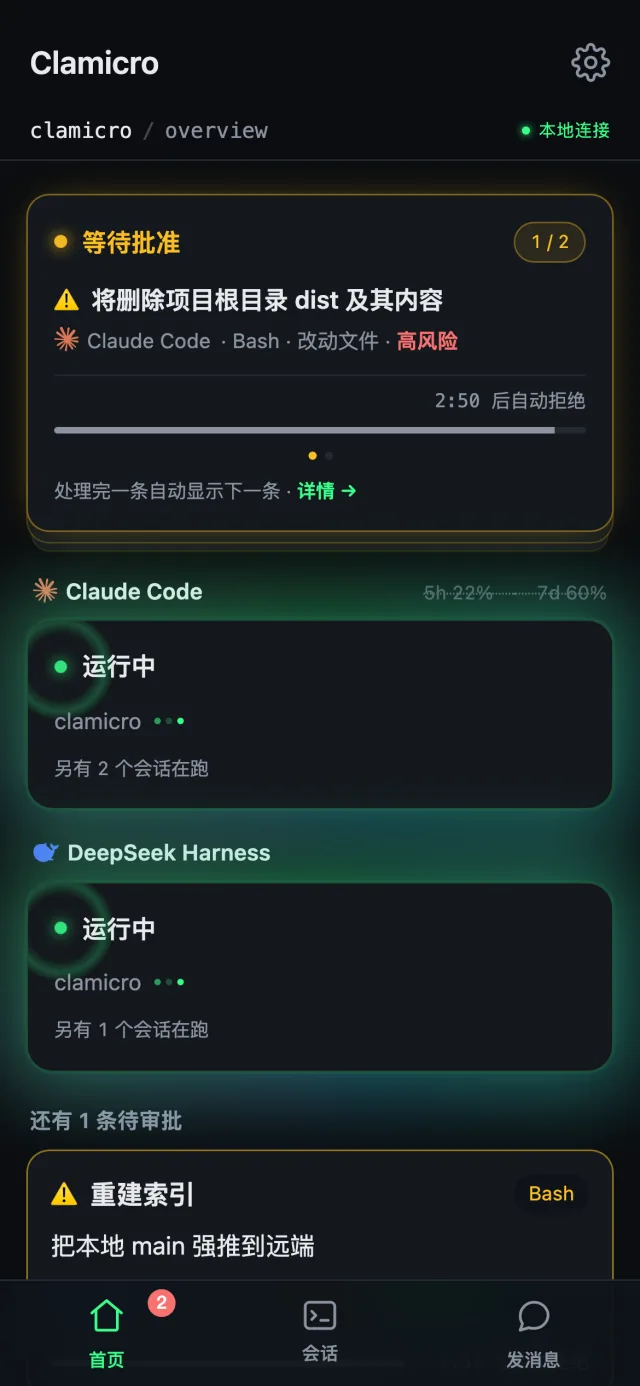
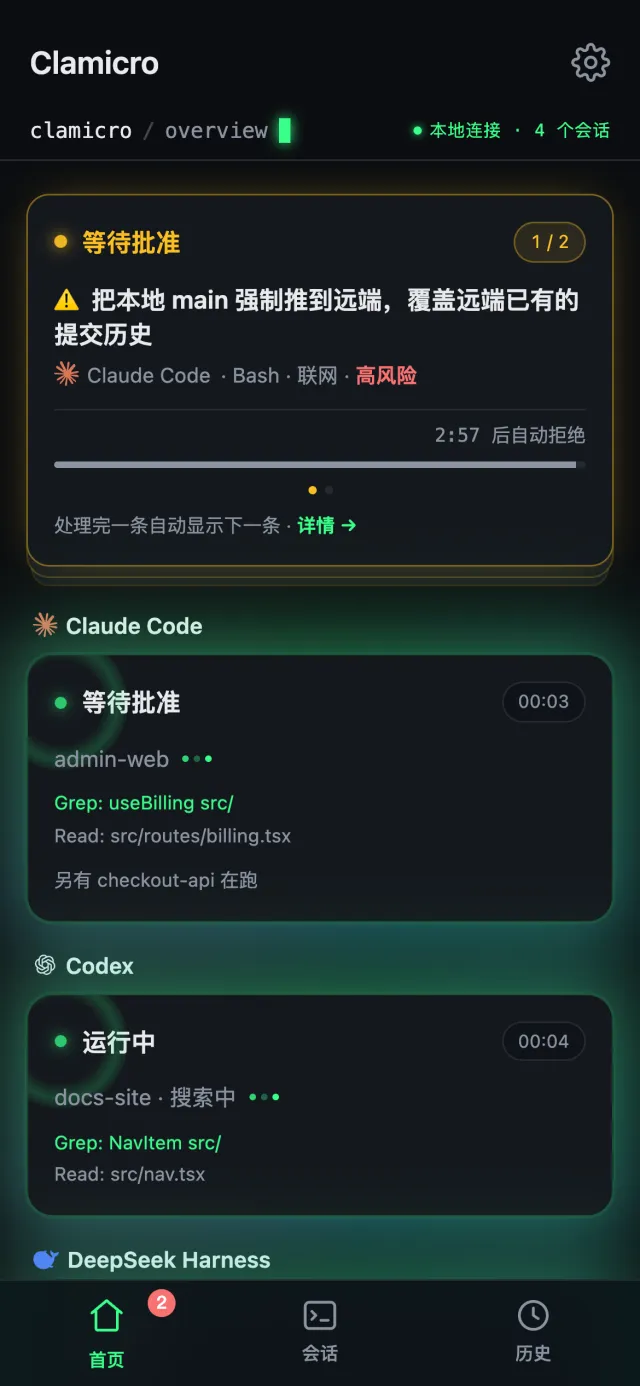
docs: 重拍界面截图，并把重拍这件事变成一条命令
## 图为什么旧了

上一批是 8 月 20 日拍的。之后界面改了不止一处：顶部换成品牌名 + 连接状态、
单后端也分区、会话页底栏整个变成输入框、加了历史 tab、后端 logo 回来了。
到今天再看，README 里那三张**没有一张还是现在的样子**。

根因不是没人管，是重拍一次太麻烦：要起服务、要造出「正在跑」和「有待审批」
这两种转瞬即逝的状态、要摆到手机尺寸、还要三张风格一致。手工十几分钟，
于是每次改完 UI 都想着「下次一起弄」。

## 所以先有脚本，再有图

    node scripts/shots.mjs

自己起一个**临时 HOME 上的服务**（不碰真实配置和真实会话）、自己造状态、
自己拍、自己关掉。零依赖：Chrome 本来就在开发机上，Node 22 起 WebSocket 是
全局的，直接说 CDP 就够，不引 puppeteer。deviceScaleFactor 拉到 3，出图
1170×2532，和历来那批一致——视口保持真手机尺寸，只提像素密度。

写脚本时自己踩的三脚，都留了注释：

  · 端口从 DevToolsActivePort 读，不嗅 stderr——那一行可能在监听器挂上之前
    就出来了，而 Chrome 其实早就起好了
  · startServer 失败时要先 kill 掉自己 spawn 的进程再抛。第一版直接 throw，
    子进程还活着，于是下一次跑撞 EADDRINUSE，报出来的却是「配置文件不存在」
  · kill 之后要等进程真的退出再删目录。Chrome 收到信号后还会写一阵子，
    删早了是 ENOTEMPTY——而图其实已经拍好写盘了，一次成功被清理错误报成失败

## 图本身

home-running 改成三个后端各一组：**分组按后端**是这一版首页的主结构，
一个后端的截图看不出它长什么样。

home-pending 换成 git push --force——它真的会判高风险（rules.mjs 的
「强推覆盖远端」），卡片走红色、给足三分钟。原来那条 psql -f migrations/…
判普通风险、10 秒自动通过，拍下来是一条正在倒数 7 秒的进度条，看着像
「你还没看它就要过了」，而这恰恰是最不想给人的印象。
（psql 判普通不是漏报：风险引擎读不到那个 .sql 里写了什么，卡片如实写着
「影响面未知」。）

审批请求补上 description——那是模型自己写的那句话，真实请求一定带。
不给的话「模型的描述」栏就复述一遍命令，看着像功能没做完。

## alt 文案跟着改

一段描述着另一张图的 alt，比没有 alt 更糟——读屏软件会照着念。
四个文件里那两句都改了：README.md / README.zh-CN.md / docs/index.html /
docs/zh/index.html。

webp 沿用既有规格（640×1386，官网声明的显示尺寸），体积和旧的持平。
拍完扫过：图里没有真 token、主机名、局域网 IP、真实用户名。

diff --git a/docs/index.html b/docs/index.html
@@ -78,14 +78,14 @@
       <figure>
         <picture>
           <source srcset="./images/home-running.webp" type="image/webp">
-          <img src="./images/home-running.png" width="640" height="1386" loading="lazy" decoding="async" alt="Home screen while the agent is working: a breathing status console and a scrolling list of recent tool calls">
+          <img src="./images/home-running.png" width="640" height="1386" loading="lazy" decoding="async" alt="Home screen while three agents work: Claude Code, Codex and DeepSeek Harness each get their own group, with the running session and its latest tool calls under it">
         </picture>
         <figcaption><strong>Running</strong> A breathing console and the tool calls as they happen.</figcaption>
       </figure>
       <figure>
         <picture>
           <source srcset="./images/home-pending.webp" type="image/webp">
-          <img src="./images/home-pending.png" width="640" height="1386" loading="lazy" decoding="async" alt="Home screen with a pending approval at the top and a second one listed below">
+          <img src="./images/home-pending.png" width="640" height="1386" loading="lazy" decoding="async" alt="Home screen with a high-risk git push --force pinned at the top counting down three minutes, and the per-backend sessions below">
         </picture>
         <figcaption><strong>Something needs you</strong> What it wants to do, in one line, with the clock running.</figcaption>
       </figure>

diff --git a/docs/zh/index.html b/docs/zh/index.html
@@ -77,14 +77,14 @@
       <figure>
         <picture>
           <source srcset="../images/home-running.webp" type="image/webp">
-          <img src="../images/home-running.png" width="640" height="1386" loading="lazy" decoding="async" alt="agent 工作中的首页:呼吸状态的控制台,以及滚动的工具调用列表">
+          <img src="../images/home-running.png" width="640" height="1386" loading="lazy" decoding="async" alt="agent 工作中的首页:Claude Code、Codex、DeepSeek Harness 各占一组,每组下面是正在跑的会话和最近几次工具调用">
         </picture>
         <figcaption><strong>运行中</strong> 一个会呼吸的控制台,工具调用实时往下滚。</figcaption>
       </figure>
       <figure>
         <picture>
           <source srcset="../images/home-pending.webp" type="image/webp">
-          <img src="../images/home-pending.png" width="640" height="1386" loading="lazy" decoding="async" alt="首页顶部有一条待批准,下面还列着第二条">
+          <img src="../images/home-pending.png" width="640" height="1386" loading="lazy" decoding="async" alt="首页顶部钉着一条高风险的 git push --force,倒数三分钟,下面是各后端的会话">
         </picture>
         <figcaption><strong>有事找你</strong> 它想干什么,一行说清,倒计时在跑。</figcaption>
       </figure>

diff --git a/README.md b/README.md
@@ -12,7 +12,7 @@ Stop babysitting the terminal. When Claude Code needs permission, your Mac notif
 
 | Running | Something needs you | The decision |
 |:--:|:--:|:--:|
-| <img src="https://raw.githubusercontent.com/laosji/clamicro/main/docs/images/home-running.png" width="230" alt="Home screen while Claude Code is working: a breathing status console and a scrolling list of recent tool calls"> | <img src="https://raw.githubusercontent.com/laosji/clamicro/main/docs/images/home-pending.png" width="230" alt="Home screen with a pending approval at the top and a second one listed below"> | <img src="https://raw.githubusercontent.com/laosji/clamicro/main/docs/images/approval-detail.png" width="230" alt="Approval detail: risk level, impact, the command in full, and a drag-to-decide bar pinned to the bottom"> |
+| <img src="https://raw.githubusercontent.com/laosji/clamicro/main/docs/images/home-running.png" width="230" alt="Home screen while three agents work: Claude Code, Codex and DeepSeek Harness each get their own group, with the running session and its latest tool calls under it"> | <img src="https://raw.githubusercontent.com/laosji/clamicro/main/docs/images/home-pending.png" width="230" alt="Home screen with a high-risk git push --force pinned at the top counting down three minutes, and the per-backend sessions below"> | <img src="https://raw.githubusercontent.com/laosji/clamicro/main/docs/images/approval-detail.png" width="230" alt="Approval detail: risk level, impact, the command in full, and a drag-to-decide bar pinned to the bottom"> |
 
 *The screenshots are the real UI, not mockups. The notch capsule is a screen capture from a Mac.*
 

diff --git a/README.zh-CN.md b/README.zh-CN.md
@@ -12,7 +12,7 @@
 
 | 运行中 | 有事等你 | 做决定 |
 |:--:|:--:|:--:|
-| <img src="https://raw.githubusercontent.com/laosji/clamicro/main/docs/images/home-running.png" width="230" alt="运行中的首页：呼吸的状态主控台，下面滚动着最近几次工具调用"> | <img src="https://raw.githubusercontent.com/laosji/clamicro/main/docs/images/home-pending.png" width="230" alt="有待审批时的首页：主控台在最上面，下面列着剩下的"> | <img src="https://raw.githubusercontent.com/laosji/clamicro/main/docs/images/approval-detail.png" width="230" alt="审批详情：风险等级、影响面、命令原文，决策条钉在底部"> |
+| <img src="https://raw.githubusercontent.com/laosji/clamicro/main/docs/images/home-running.png" width="230" alt="运行中的首页：Claude Code、Codex、DeepSeek Harness 各占一组，每组下面是正在跑的会话和最近几次工具调用"> | <img src="https://raw.githubusercontent.com/laosji/clamicro/main/docs/images/home-pending.png" width="230" alt="有待审批时的首页：一条高风险的 git push --force 顶在最上面，倒数着三分钟，下面是各后端的会话"> | <img src="https://raw.githubusercontent.com/laosji/clamicro/main/docs/images/approval-detail.png" width="230" alt="审批详情：风险等级、影响面、命令原文，决策条钉在底部"> |
 
 *截图是真实界面，不是效果图。刘海那张是 Mac 上实拍的屏幕截图。*
 
